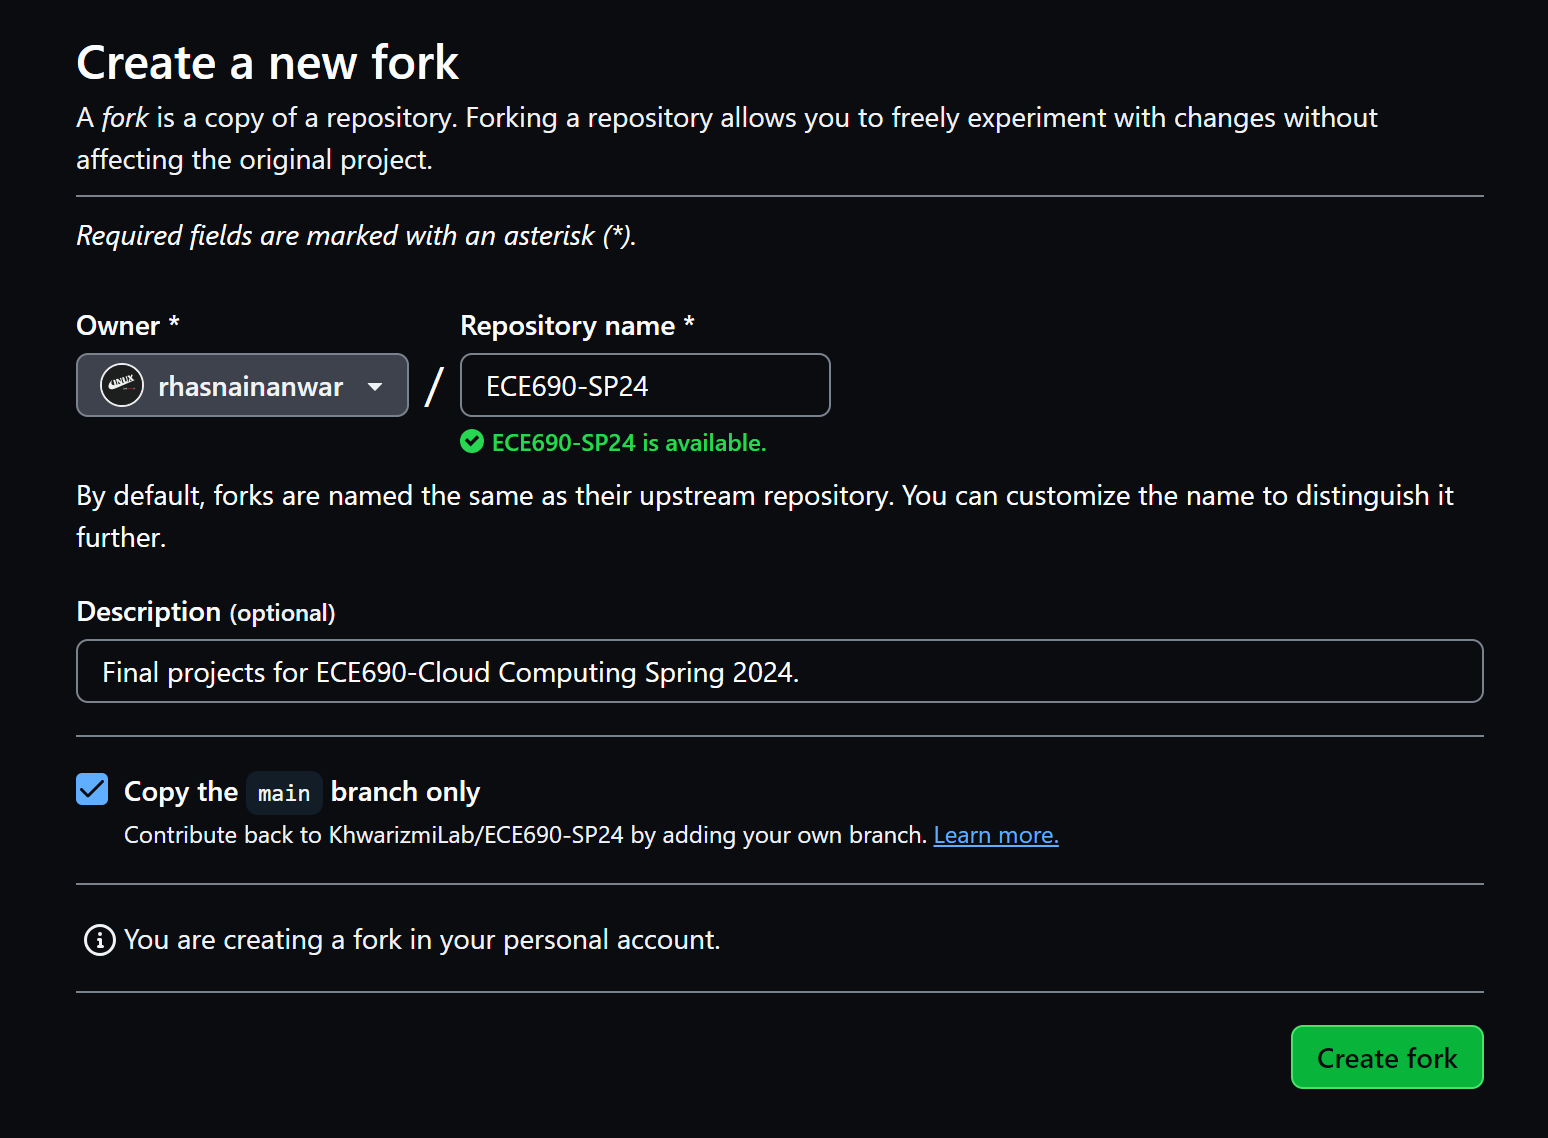
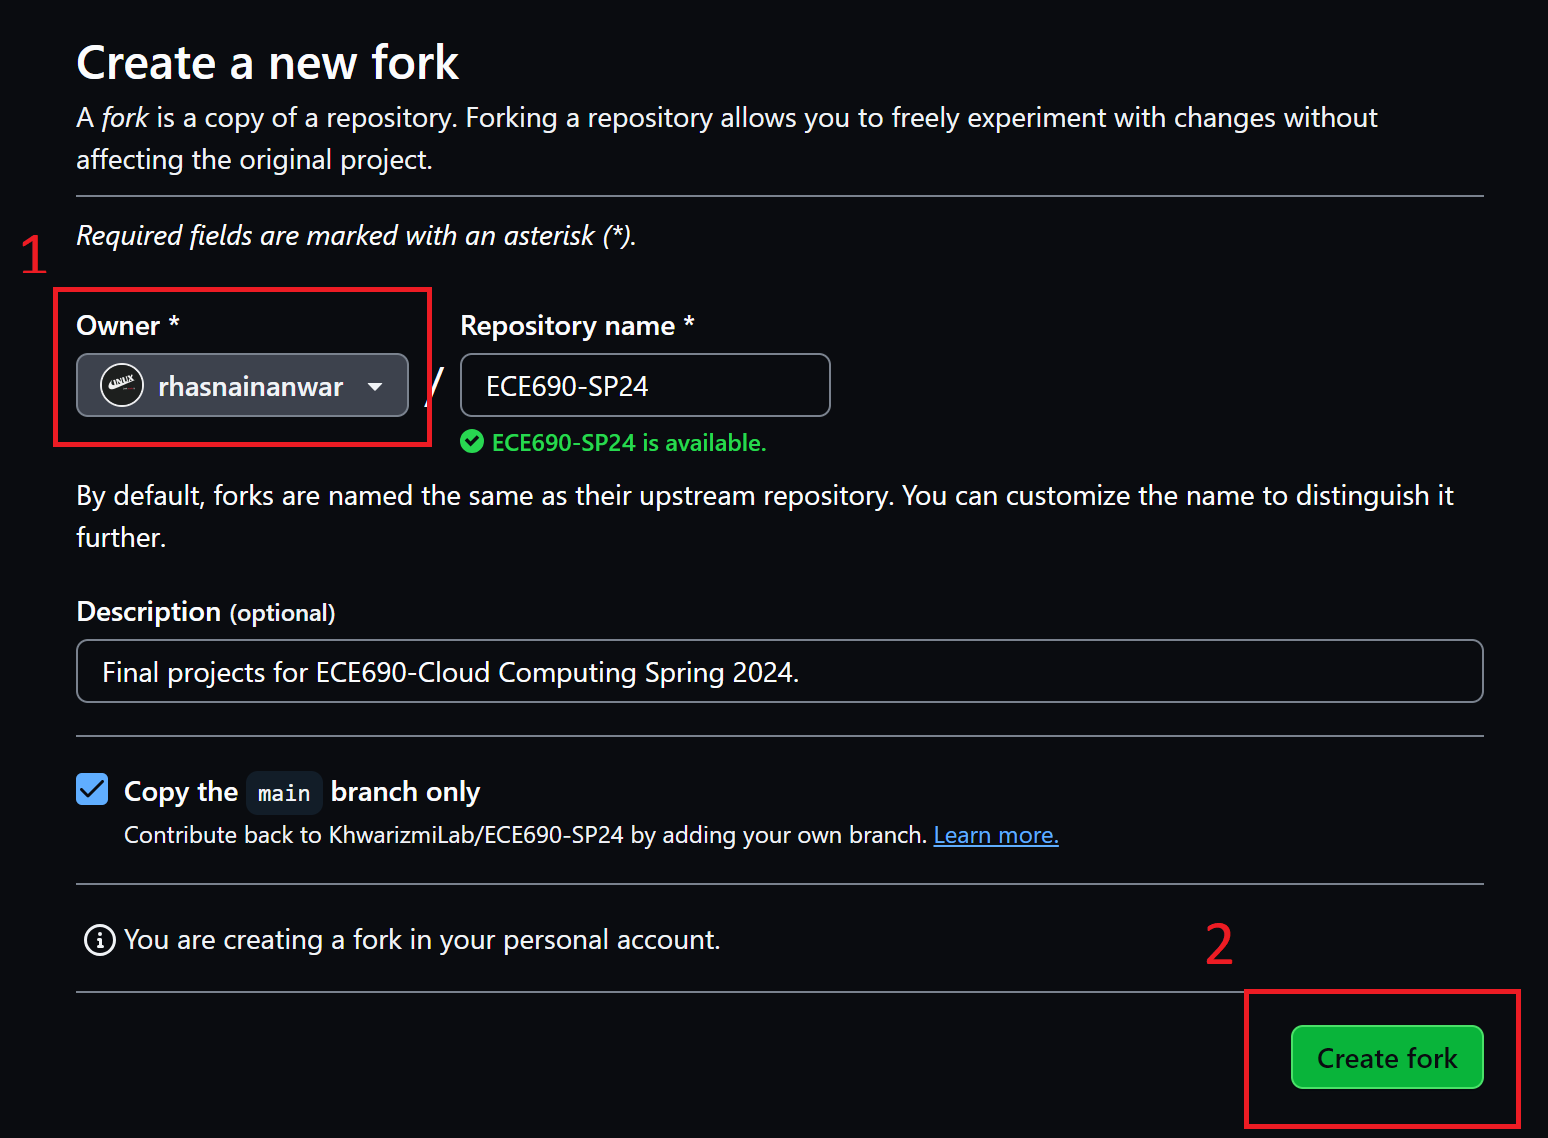
updated readme guide

diff --git a/README.md b/README.md
@@ -2,6 +2,44 @@
 Final projects for ECE690-Cloud Computing Spring 2024.
 
 # Directions for Groups
-- Fork the repo.
-- Create a new folder with your Team's name and add all your code and latex files in it push.
-- Create a pull request.
+1. Fork the repo.
+2. Clone the repo.
+3. Create a new folder with your Team's name and add all your code and latex files.
+4. Commit and push changes to your copy of the repo.
+5. Create a pull request.
+
+
+## 1. Fork
+#### Create a fork (copy) of *this* repo by clicking the `Fork` button on top right.
+![Fork](TestTeam/fork1.png)
+
+#### Make sure you have selected the correct account for Fork, and click `Create fork'`to initiate copy.
+![Fork](TestTeam/fork2.png)
+
+
+## 2. Clone
+#### Download the *forked* repo by clicking `Code` button on top right.
+You can use `SSH` or `HTTPS` based on how your GitHub account is set up.
+![Clone](TestTeam/clone1.png)
+
+## 3. Team Folder
+#### Open a terminal and clone the *forked* repo.
+If you copied the `HTTPS` link, you will be asked to provide the username and password.
+Create a new folder with your Team's name and copy all your files in this folder.
+![Clone](TestTeam/clonemkdir.png)
+
+## 4. Commit and Push Changes
+Make sure you are in the repo base directory. If you are in your TeamFolder, do `cd ..`.
+```
+git add <Team Folder Name>
+git commit -m '<appropriate message>'
+git push
+```
+![Commit](TestTeam/commitpush.png)
+
+## 5. Pull Request
+![Pull Request](TestTeam/pullrequest1.png)
+
+![Pull Request](TestTeam/pullrequest2.png)
+
+![Pull Request](TestTeam/pullrequest3.png)
